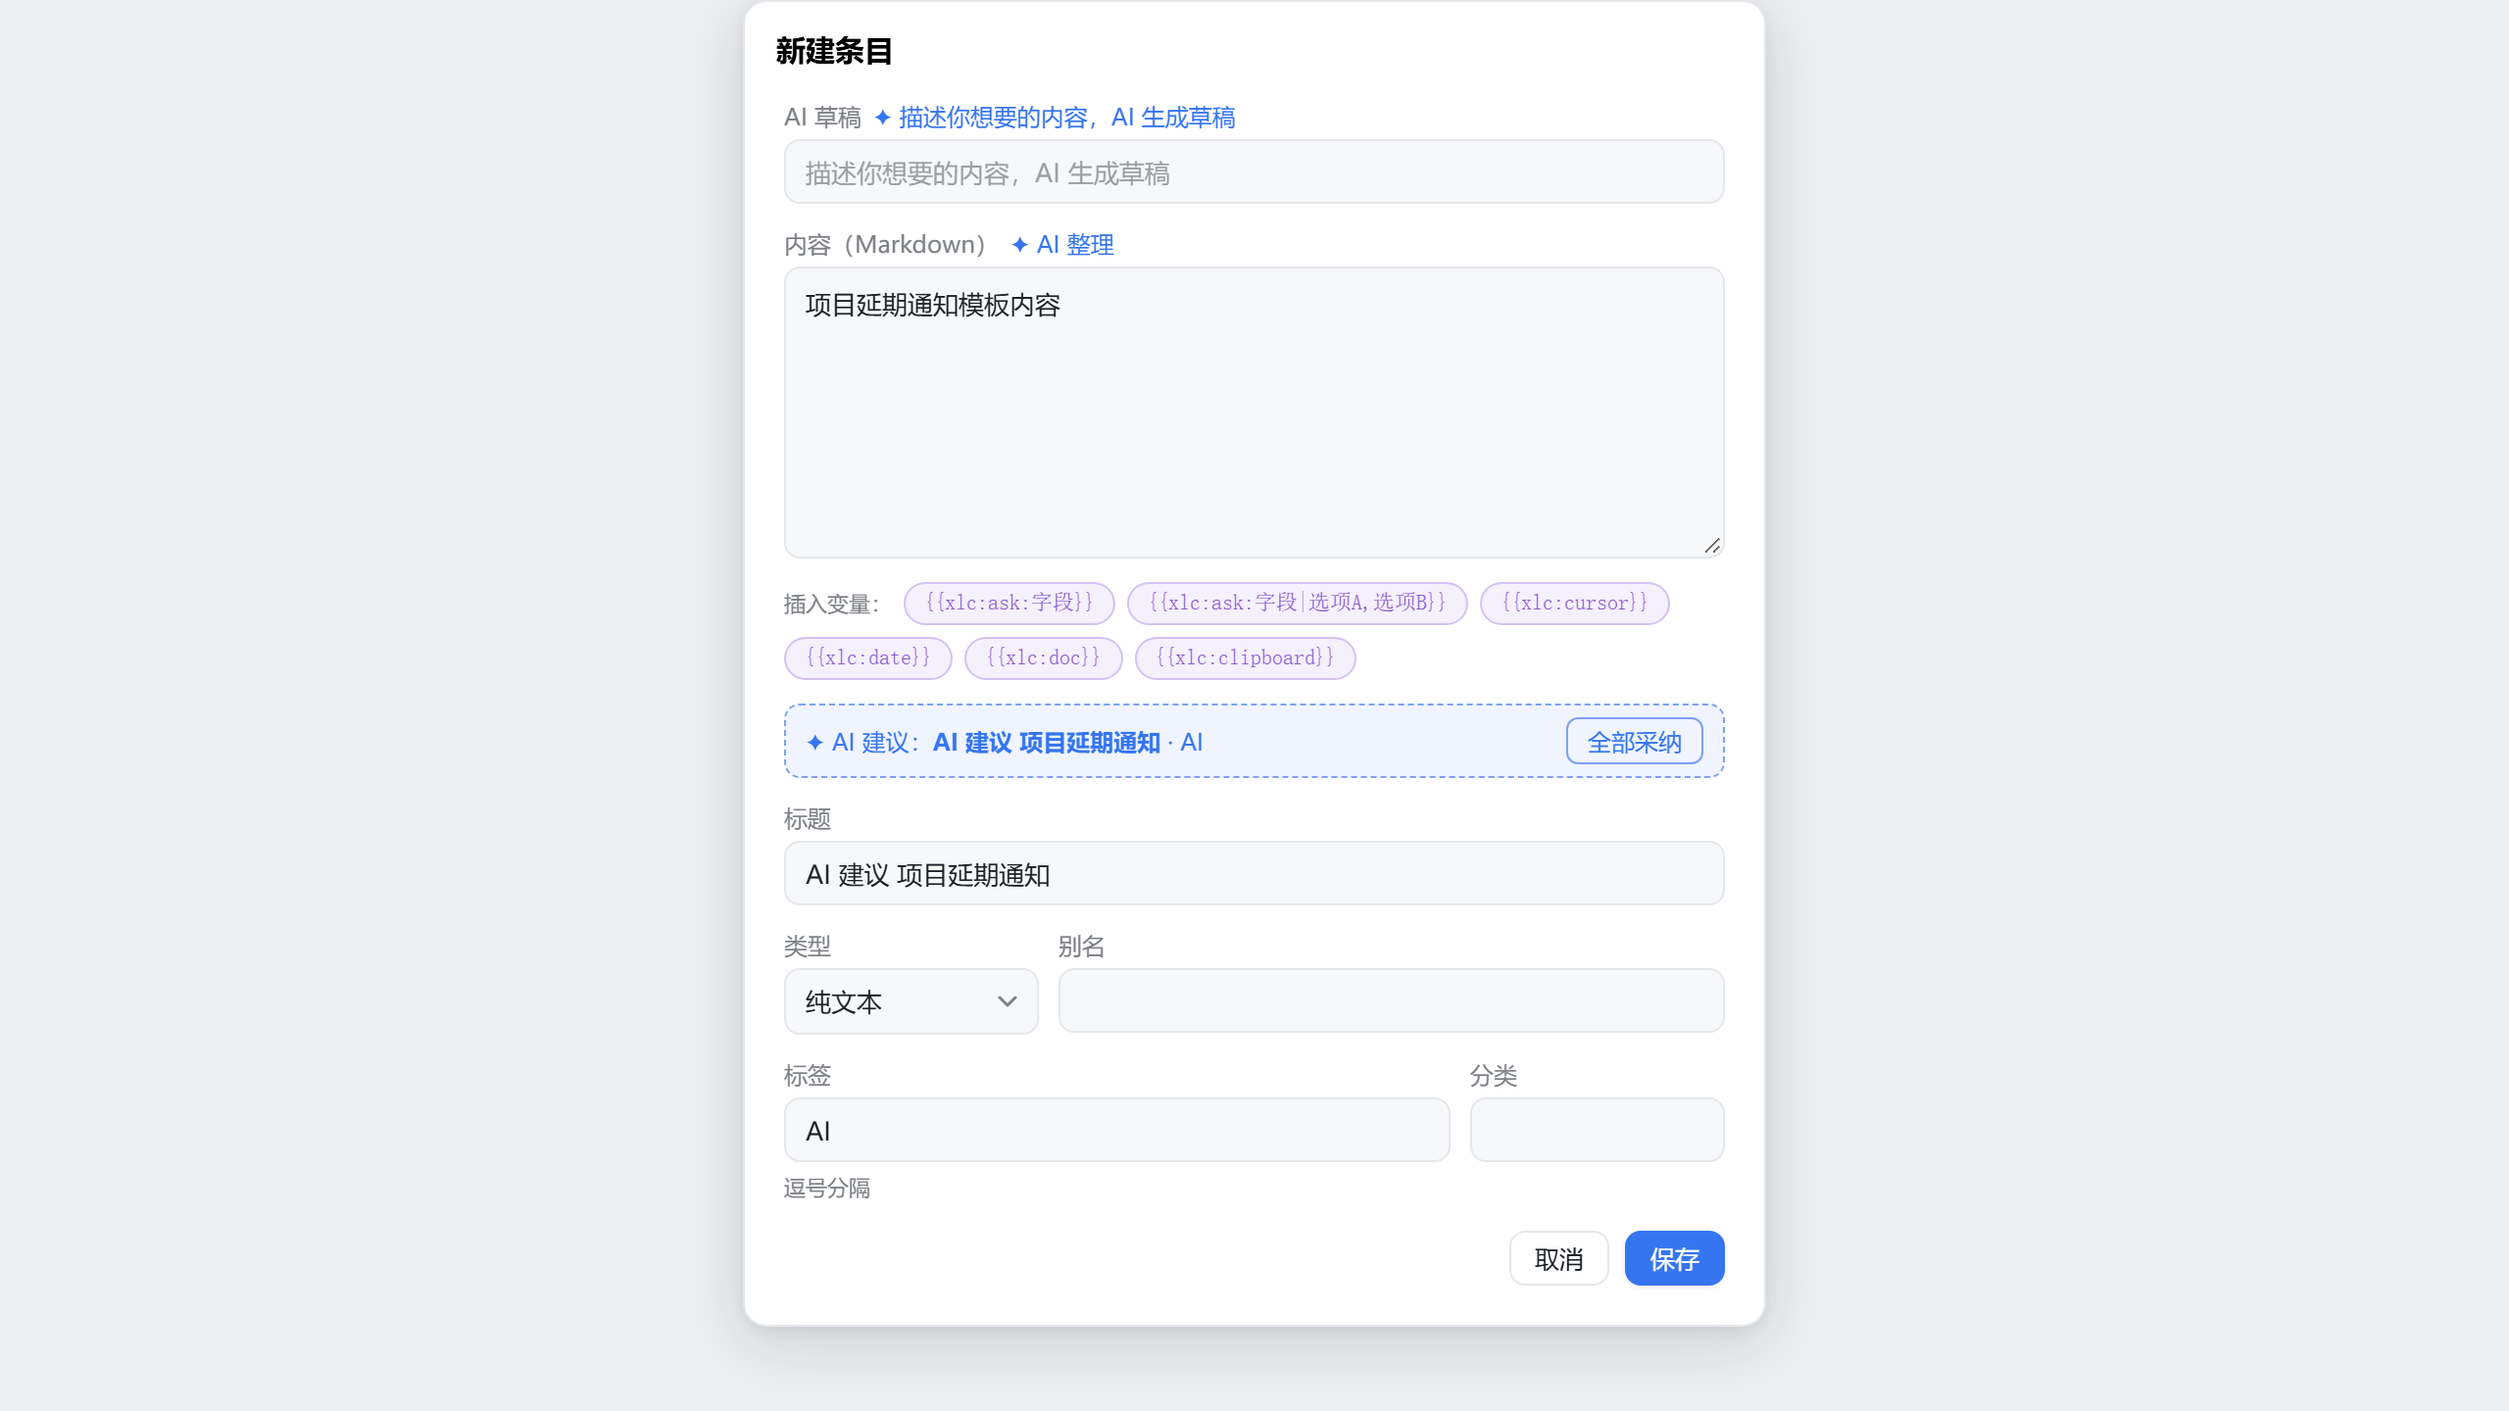
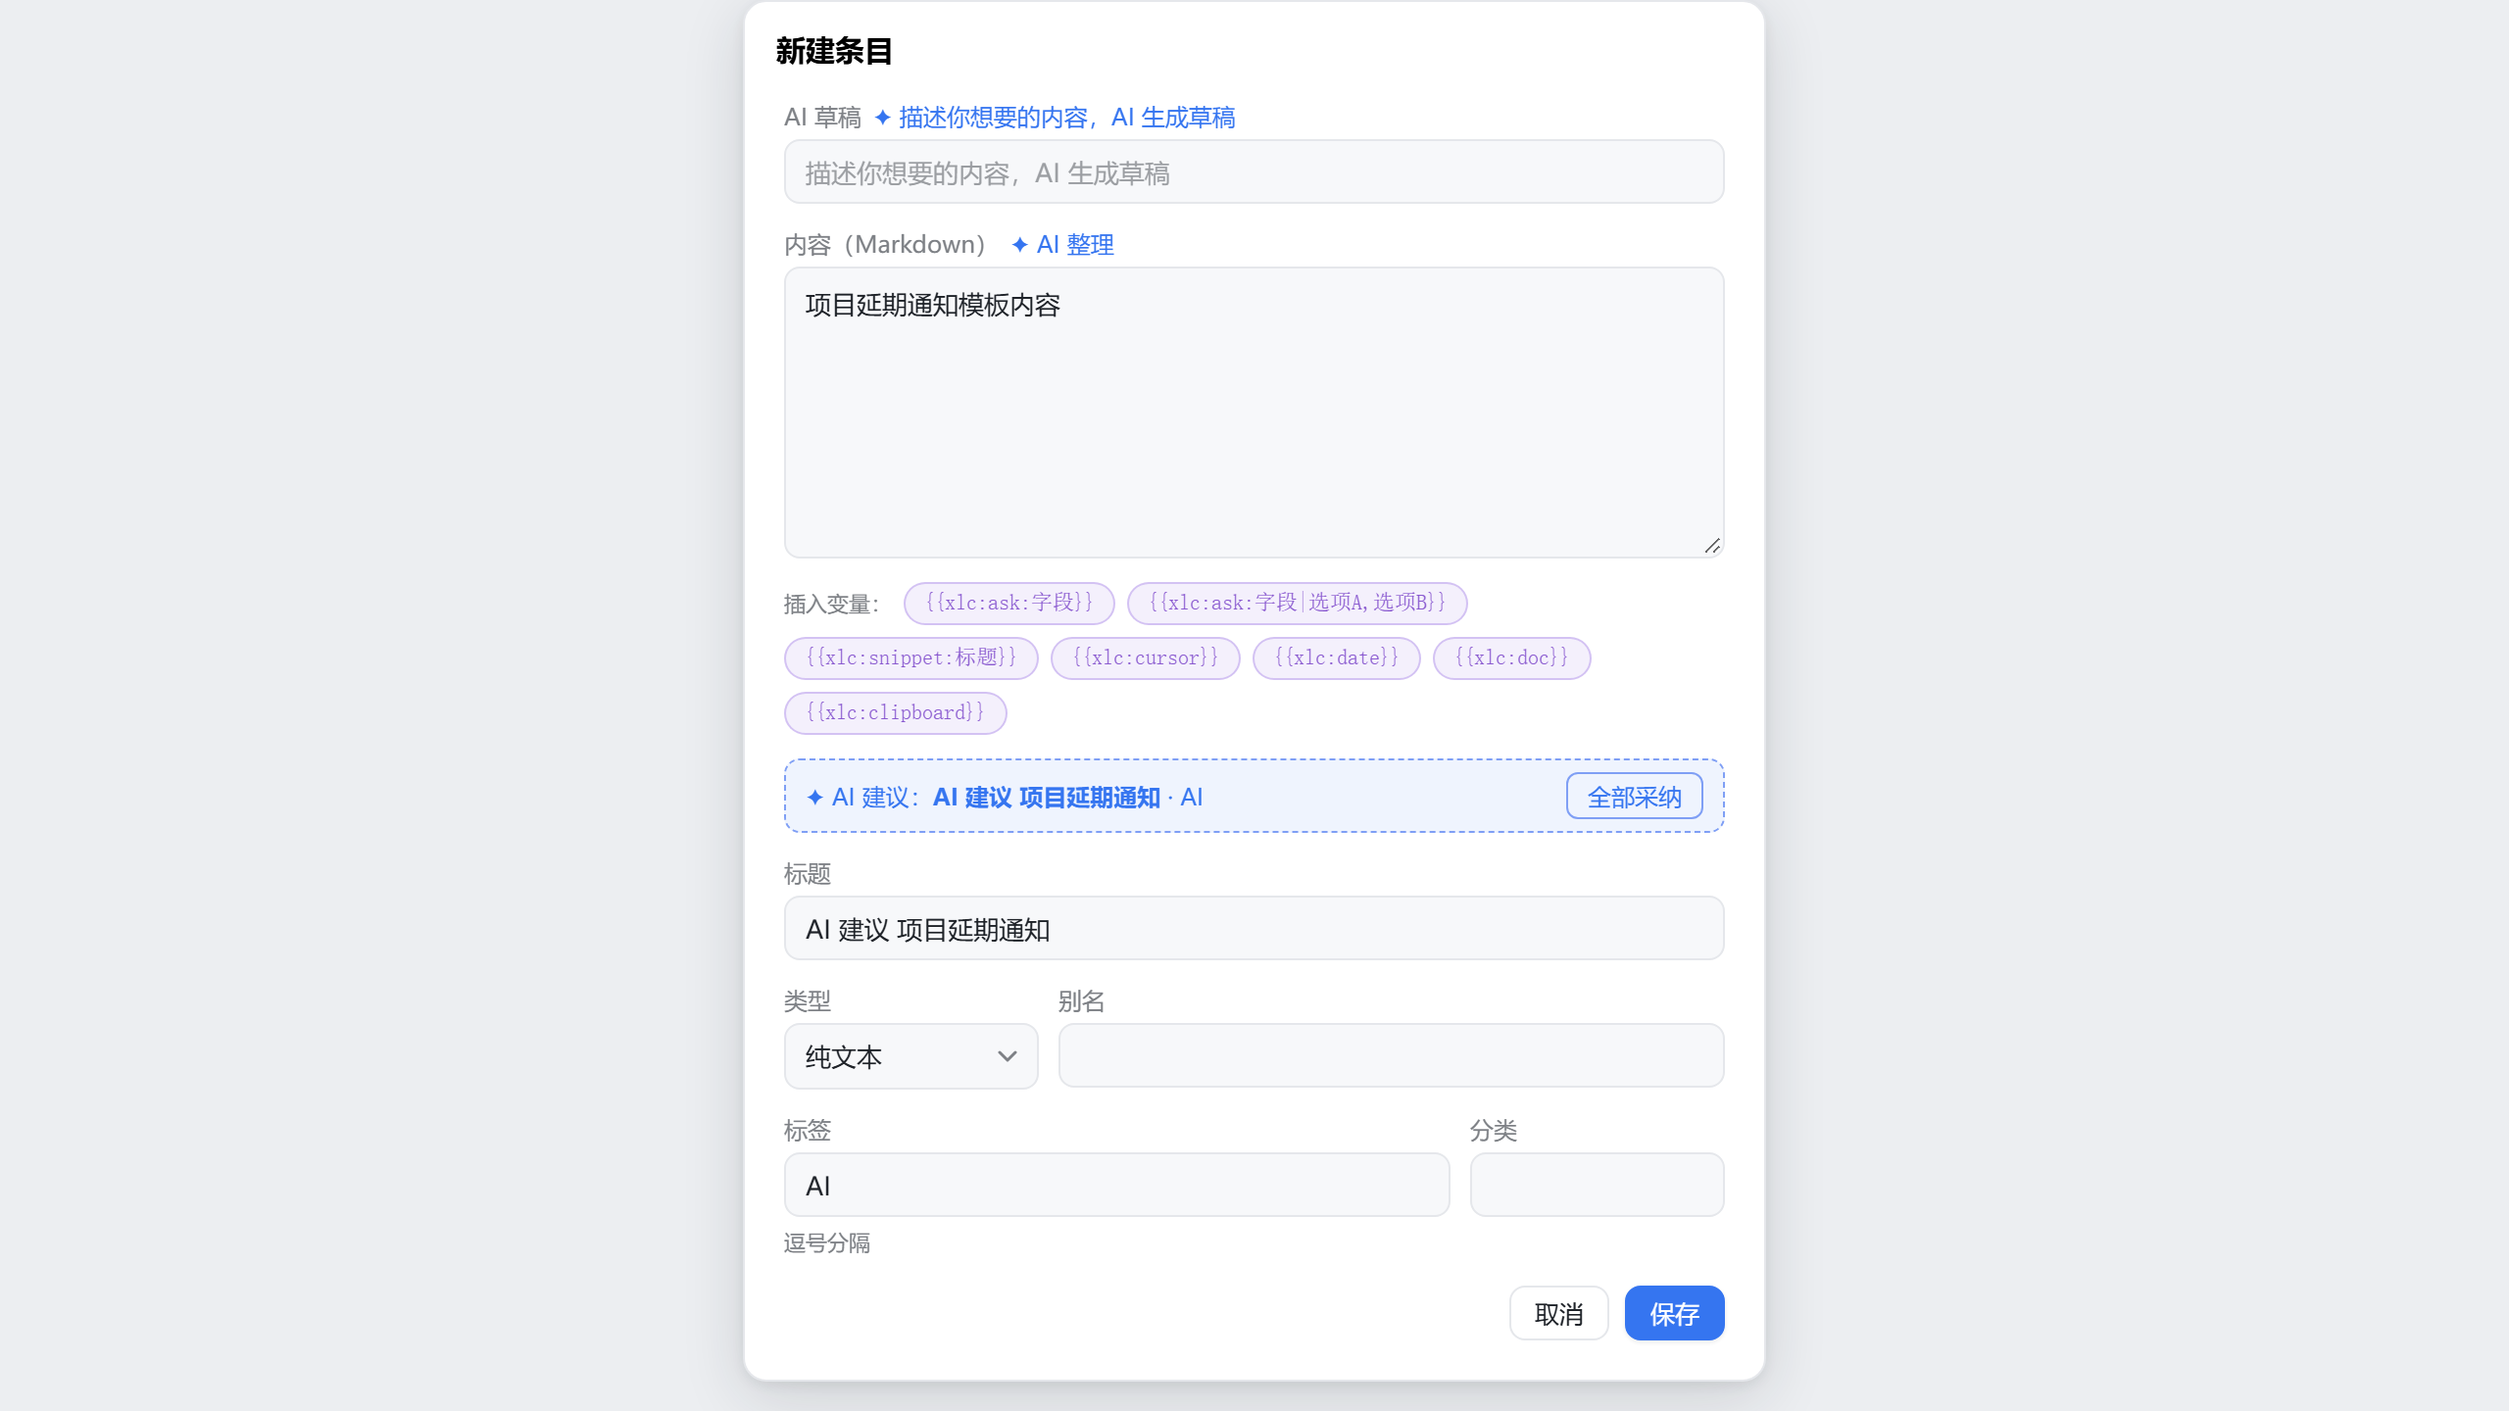
R72：F5 片段嵌套落地——{{xlc:snippet:标题}} 插入/预览前展开（深度≤3/环检测/缺失落可见标记/code 字面），预览=插入所得三处统一，变量条补按钮；179 测试与 14 组 UI smoke 全绿（负向验证×1）

diff --git a/src/service/library.ts b/src/service/library.ts
@@ -24,7 +24,7 @@ import {
 import {LibraryConfig} from "../model/storage";
 import {SearchEntry} from "../model/search";
 import {getPinyinAdapter} from "../model/pinyin";
-import {countAskFields} from "../model/variables";
+import {countAskFields, SNIPPET_PATTERN} from "../model/variables";
 
 export interface IndexBuildResult {
     entries: SearchEntry[];
@@ -386,6 +386,50 @@ export class LibraryService {
     }
 
     /** 现场取条目内容（kramdown）。禁止用索引摘要充当正文。 */
+    /** F5 片段嵌套：展开 {{xlc:snippet:标题}} 引用（插入语义；ask 变量保留给填充卡）。
+     *  深度 ≤3；按条目标题精确匹配（重名取索引首个）；已见条目不重复展开（防环，兄弟引用允许）；
+     *  标题缺失 / 成环 / 超深 → 替换为 __片段：标题__（可见可改，不静默丢）。 */
+    /** F5 片段嵌套：展开 {{xlc:snippet:标题}} 引用（插入语义；ask 变量保留给填充卡）。
+     *  maxDepth = 引用层数上限（默认 3）；按条目标题精确匹配（重名取索引首个）；
+     *  已见条目不重复展开（防环，兄弟引用允许）；标题缺失 / 成环 / 超出层数 →
+     *  替换为 __片段：标题__（可见可改，不静默丢）。 */
+    async expandSnippetRefs(text: string, opts?: {maxDepth?: number}): Promise<string> {
+        const maxDepth = opts?.maxDepth ?? 3;
+        if (!text || !text.includes("{{xlc:snippet:")) return text;
+        const idx = await this.ensureIndex();
+        const byTitle = new Map<string, CommonItem>();
+        for (const item of idx.items.values()) {
+            if (item.title && !byTitle.has(item.title)) byTitle.set(item.title, item);
+        }
+        const expand = async (input: string, level: number, seen: Set<string>): Promise<string> => {
+            if (!input || !input.includes("{{xlc:snippet:")) return input;
+            let out = input;
+            for (const match of input.matchAll(SNIPPET_PATTERN)) {
+                const token = match[0];
+                const title = (match[1] ?? "").trim().slice(0, LIMITS.title);
+                const marker = `__片段：${title || "?"}__`;
+                let replacement = marker;
+                if (level <= maxDepth) {
+                    const target = title ? byTitle.get(title) : undefined;
+                    if (target && !seen.has(target.id)) {
+                        seen.add(target.id);
+                        try {
+                            const kd = await this.getItemKramdown(target);
+                            if (kd.ok) {
+                                replacement = await expand(kd.data, level + 1, seen);
+                            }
+                        } finally {
+                            seen.delete(target.id);
+                        }
+                    }
+                }
+                out = out.split(token).join(replacement);
+            }
+            return out;
+        };
+        return expand(text, 1, new Set());
+    }
+
     async getItemKramdown(item: CommonItem): Promise<Receipt<string>> {
         try {
             const data = parseKramdown(await this.kernel.request("getBlockKramdown", {id: item.blockId}));

diff --git a/src/service/commands.ts b/src/service/commands.ts
@@ -158,11 +158,14 @@ export class ActionExecutor {
      *  {{xlc:clipboard}} 异步替换（读取失败=空串，语义同无文档）。
      *  code 条目跳过替换：代码中的 {{xlc:…}} 是字面文本（例如演示模板的代码），绝不能被改写。 */
     /** 公开渲染入口：定向插入（insertToDoc）与 provider payload 共用（R50/R51 语义统一）。
-     *  fills：变量填充卡收集的 ask 值（R67）；插入语义，含光标移除与未填充兜底。 */
+     *  fills：变量填充卡收集的 ask 值（R67）；插入语义，含片段展开（R72）、光标移除与未填充兜底。 */
     async renderForInsert(text: string, item?: CommonItem, fills?: Record<string, string>): Promise<string> {
         let payload = text;
         if (item?.itemType !== "code") {
-            if (fills) payload = expandAsks(payload, fills);
+            payload = await this.library.expandSnippetRefs(payload);
+            if (fills) {
+                payload = expandAsks(payload, fills);
+            }
             payload = applyAskDefaults(stripCursorToken(payload));
         }
         return (await this.applyOutput(payload, item)) ?? payload;
@@ -215,13 +218,16 @@ export class ActionExecutor {
         }
     }
 
-    /** 现场解析条目内容；变量填充卡收集的 ask 值在此展开（模型层纯字符串替换；code 条目不处理变量）。 */
+    /** 现场解析条目内容；先展开片段引用（F5，code 条目不处理），再应用变量填充卡的 ask 值。 */
     private async resolveWithFills(item: CommonItem, fills?: Record<string, string>) {
         const content = await this.resolveContent(item);
         if (!content) return null;
-        if (fills && item.itemType !== "code") {
-            const expanded = expandAsks(content.kramdown, fills);
-            content.kramdown = expanded;
+        if (item.itemType !== "code") {
+            let kramdown = await this.library.expandSnippetRefs(content.kramdown);
+            if (fills) {
+                kramdown = expandAsks(kramdown, fills);
+            }
+            content.kramdown = kramdown;
         }
         return content;
     }

diff --git a/src/model/variables.ts b/src/model/variables.ts
@@ -3,6 +3,8 @@
 // —— ask 与动态占位符（placeholders.ts）分离：ask 在插入前由填充卡片收集，存储内容永远保留模板原文。
 // 不可用变量诚实降级：插入路径上未填充的 ask 展开为 __名称__（可见可改，绝不静默丢）。
 // code 条目不处理变量：代码中的 {{xlc:…}} 是字面文本（与 r23 决策一致）。
+// 片段嵌套（R72/F5）：{{xlc:snippet:标题}} 引用其他条目，插入时由 library.expandSnippetRefs 展开
+// （深度 ≤3、环检测；此处只提供语法模式与光标/检测工具）。
 
 import {LIMITS} from "../constants";
 
@@ -78,6 +80,9 @@ export function applyAskDefaults(text: string): string {
 
 /** {{xlc:cursor}} 光标落点标记：宿主官方 API 无法定位文内光标，插入时移除标记（光标自然落在插入内容之后）。 */
 export const CURSOR_TOKEN = "{{xlc:cursor}}";
+
+/** 片段引用语法（F5）：标题不含 }；展开语义见 library.expandSnippetRefs */
+export const SNIPPET_PATTERN = /\{\{xlc:snippet:([^}]+)\}\}/g;
 
 export function stripCursorToken(text: string): string {
     return text.split(CURSOR_TOKEN).join("");

diff --git a/src/index.ts b/src/index.ts
@@ -713,7 +713,8 @@ export default class XiaolvCommonPlugin extends Plugin {
                 const got = await this.library.getItem(itemId);
                 if (!got.ok) return "";
                 const kd = await this.library.getItemKramdown(got.data);
-                const text = kd.ok ? kd.data : "";
+                // 片段引用展开后预览（F5）：预览/填充卡所见 = 插入所得；变量仍保留给填充卡
+                const text = kd.ok ? await this.library.expandSnippetRefs(kd.data) : "";
                 if (text) this.previewCache.set(itemId, text);
                 return text;
             },

diff --git a/src/ui/variable-form.ts b/src/ui/variable-form.ts
@@ -158,6 +158,7 @@ export function buildVariableBar(t: (key: string, ...args: string[]) => string, 
     const snippets = [
         "{{xlc:ask:字段}}",
         "{{xlc:ask:字段|选项A,选项B}}",
+        "{{xlc:snippet:标题}}",
         "{{xlc:cursor}}",
         "{{xlc:date}}",
         "{{xlc:doc}}",

diff --git a/docs/design/harness-bundle.js b/docs/design/harness-bundle.js
@@ -452,6 +452,7 @@
     const snippets = [
       "{{xlc:ask:\u5B57\u6BB5}}",
       "{{xlc:ask:\u5B57\u6BB5|\u9009\u9879A,\u9009\u9879B}}",
+      "{{xlc:snippet:\u6807\u9898}}",
       "{{xlc:cursor}}",
       "{{xlc:date}}",
       "{{xlc:doc}}",

diff --git a/docs/dev-plan-2026-10-06.md b/docs/dev-plan-2026-10-06.md
@@ -882,3 +882,13 @@
 
 - 测试 173/173、tsc/构建全绿；UI smoke 14 组 75 断言全绿（新增 pack-export 6 项）。
 - 门禁负向验证：关闭清单注入 → r71 单测精准失败，恢复复验全绿。
+
+## R72 轮（2026-10-07 F5 片段嵌套落地）
+
+### R72-T1 片段嵌套（F5，design-spec §五）| 完成（真机待 B-001）
+
+- 语法 `{{xlc:snippet:标题}}`：插入/预览前展开为另一条目内容——`library.expandSnippetRefs`（按标题精确匹配，重名取索引首个；maxDepth 默认 3 = 引用层数上限；环检测 seen 按路径增删，兄弟/菱形引用允许；缺失/成环/超层数 → `__片段：标题__` 可见标记）。
+- 接线三处统一语义「预览/填充卡所见 = 插入所得」：① executor `resolveWithFills`（先展开片段再应用 fills；code 条目字面）；② `renderForInsert`（定向插入同语义）；③ index.ts `preview` dep 返回展开后文本——预览窗格、变量提示行、填充卡字段收集全部基于展开结果（嵌套 ask 自动进填充卡）。
+- 变量条补 `{{xlc:snippet:标题}}` 按钮（捕获/编辑共用）。
+- 单测 +6：单层+maxDepth 边界标记、默认深度链式展开到 ask、自指环落标记不挂死、缺失标记、菱形引用、code 字面。
+- 门禁负向验证：移除环检测 → 成环用例精准失败，恢复复验全绿（179/179 + 14 组 UI smoke）。

diff --git a/docs/design/design-spec.md b/docs/design/design-spec.md
@@ -99,4 +99,5 @@
 
 - Token ↔ SCSS：`--xlc-radius-*` / `--xlc-shadow-1/2` / `--xlc-ease` / `--xlc-dur-*` / 徽标淡彩 `--xlc-badge-*`（见 index.scss 头部）；b3 变量一律取宿主。
 - 守门断言（render-production.cjs smoke）：previewBoxSized（菜单压瘪回归）、footer 结构、空态、变量徽标（F1 落地时增）、移动端形态。改动门禁须负向验证。
+- 生产现状（R72 后）：F5 片段嵌套已实现（`{{xlc:snippet:标题}}` 插入/预览前展开，深度 ≤3、环检测、不可解析落 `__片段：标题__`；变量条含 snippet 按钮）；
 - 生产现状（R67 后）：屏 1（分组头/分类筛选/变量徽标/使用计数徽标数据位/变量提示行）、屏 2、屏 3（变量快捷插入条）、屏 4（变量填充卡片）、屏 5（变量与插入卡）、屏 6（两步式引导）、屏 7、屏 8（策略卡）**均已落地**；屏 1 使用次数「N 次」meta 与屏 8 模板包导出对话框待 F3 计数 UI 呈现完善/F6 实现。实现以本规范+原型 PNG 为唯一视觉基准。

diff --git a/ROADMAP.md b/ROADMAP.md
@@ -93,7 +93,7 @@
 
 ### P1 · v0.3 规模化组织（库 >200 条）
 - [x] F4(部分) 分类筛选下拉 + 置顶/全部分组 sticky 头（R67；按分类给全部行分组的完整形态后置）
-- [ ] F5 片段嵌套 `{{xlc:snippet:标题}}`（防环、深度 ≤3）
+- [x] F5 片段嵌套 `{{xlc:snippet:标题}}`（R72：插入/预览前展开，深度 ≤3、环检测、缺失/超深落 `__片段：标题__` 可见标记，code 条目字面；填充卡自动询问嵌套 ask）
 - [x] F6 模板包分享（导出侧 R71：xlc-pack 清单 + 分类筛选 + 包名导出对话框；导入侧识别清单并在策略对话框展示包名/变量徽标；旧格式双向兼容。按分类给全部行分组的完整形态后置）
 
 ### P2 · v0.4+ AI 与生态放大

diff --git a/README.md b/README.md
@@ -127,7 +127,7 @@ common.protocolCommands["xiaolv.common.open"]();          // 稳定命令 ID
 ```bash
 pnpm i
 pnpm run check   # tsc --noEmit
-pnpm test        # esbuild 转译 + node --test（156 项）
+pnpm test        # esbuild 转译 + node --test（179 项）
 pnpm run build   # dist/ + package.zip
 node scripts/render-prototype.cjs    # 原型图截图（需 Playwright Chromium）
 pnpm run test:ui                # 生产 UI 冒烟门禁（13 项 DOM 断言 + 截图，需 Playwright Chromium）

diff --git a/README.en-US.md b/README.en-US.md
@@ -71,7 +71,7 @@ Interfaces: `getCapabilities / search / get / save / update / remove / insert / 
 ```bash
 pnpm i
 pnpm run check   # tsc --noEmit
-pnpm test        # esbuild + node --test (156 tests)
+pnpm test        # esbuild + node --test (179 tests)
 pnpm run build   # dist/ + package.zip
 pnpm run test:ui # production UI smoke (13 DOM assertions + screenshots)
 ```
